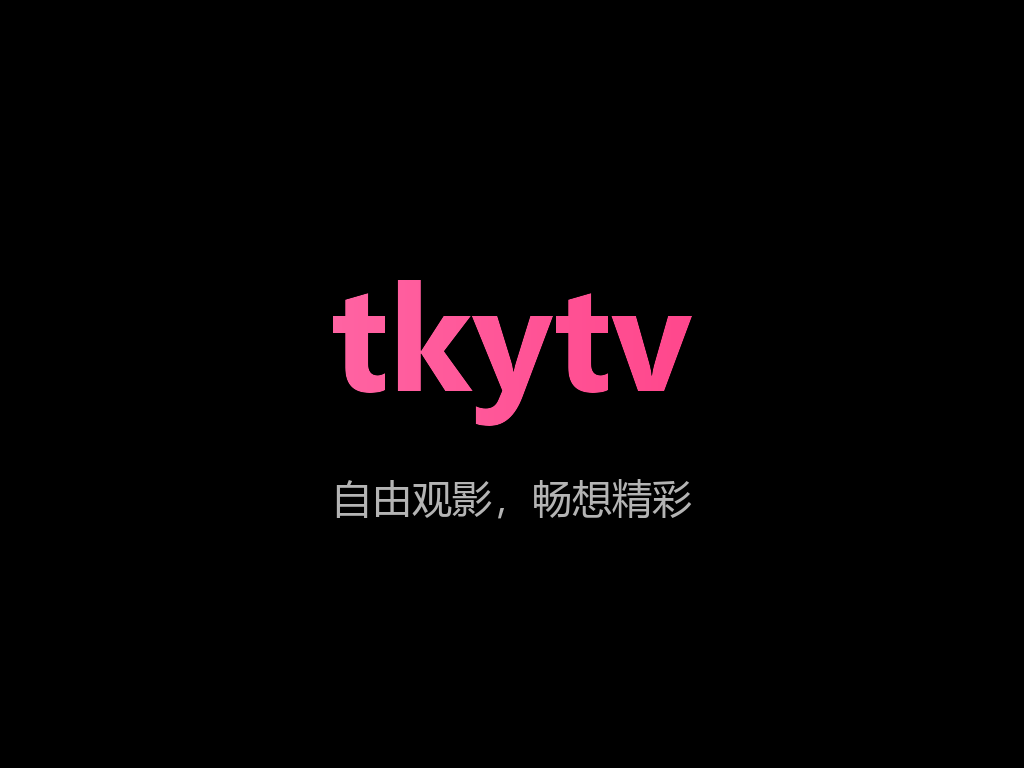
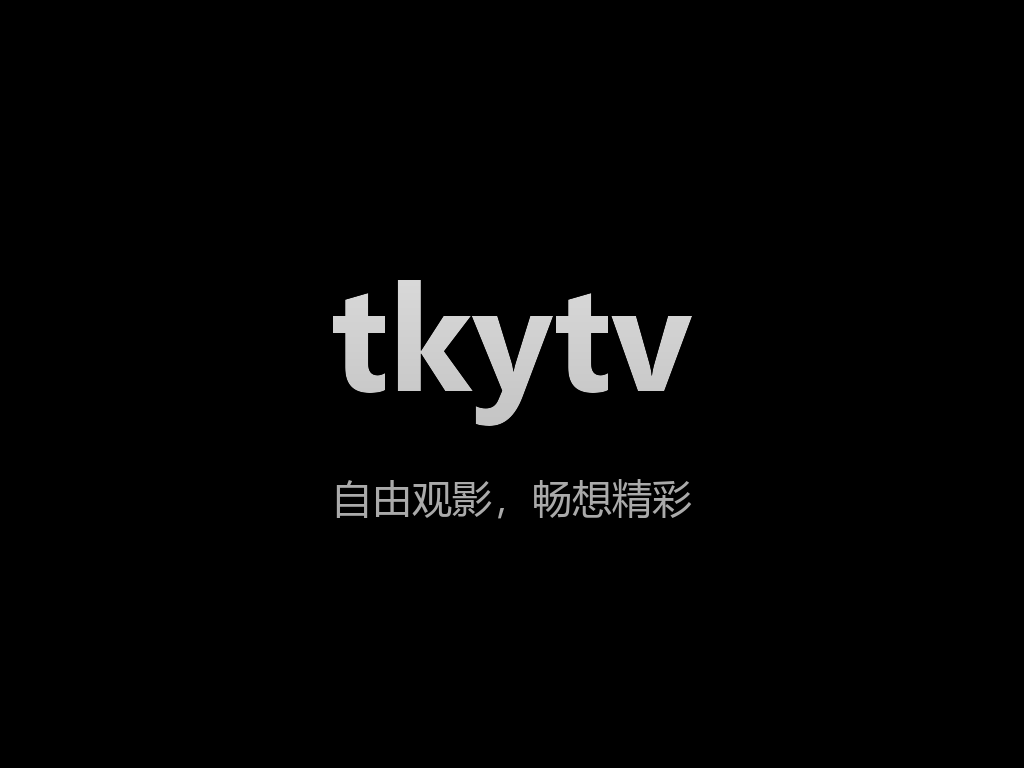
style: 整体改为黑白 Apple 质感（纯黑毛玻璃、银白图标与海报）

Changed region(s): [[0.3125, 0.3438, 0.6875, 0.5625]]

diff --git a/src/app/globals.css b/src/app/globals.css
@@ -36,33 +36,31 @@
 }
 
 .dark {
-  /* 旧版 LibreTV（backup-2025）赛博影视主题（整体调深一档）：深蓝黑底 + 霓虹蓝/粉点缀 */
-  --c-page: 11 16 26;              /* #0b101a 深蓝黑页面底色 */
-  --c-surface: 20 28 41;           /* #141c29 弹窗/抽屉底色 */
-  --c-surface-raised: 20 28 41;
-  --c-card: 13 20 31;              /* #0d141f 卡片底色 */
-  --c-chip: 22 32 46;              /* #16202e 卡片/输入框底色 */
-  --c-hover: 29 42 61;             /* #1d2a3d 悬停态（chip 提亮） */
-  --c-line: 34 48 69;              /* #223045 边框（近似旧版 rgba(0,204,255,.15) 观感） */
-  --c-content: 230 242 255;        /* #e6f2ff 蓝白主文本（--text-color） */
-  --c-muted: 133 153 178;          /* #8599b2 次级文本（--text-muted） */
-  --c-faint: 107 127 153;          /* #6b7f99 三级文本 */
-  --c-accent: 0 184 230;           /* #00b8e6 霓虹蓝主色（--primary-color 调深一档） */
-  --c-accent-hover: 51 214 255;    /* #33d6ff 霓虹蓝浅变体（--primary-light） */
-  /* 霓虹蓝底亮度过高（对白字仅 2.35:1），暗色下实心底改用深色文字 */
-  --c-on-accent: 8 19 31;
-  /* 语义状态色（暗色主题取中等明度值，保证深蓝黑底上的对比度） */
-  --c-danger: 239 68 68;           /* red-500 */
-  --c-danger-hover: 248 113 113;   /* red-400 */
-  --c-success: 34 197 94;          /* green-500 */
-  --c-warning: 245 158 11;         /* amber-500 */
-  --c-info: 59 130 246;            /* blue-500 */
-  --c-rating: 251 191 36;          /* amber-400 */
-  /* 实心状态底色（配白字）：与亮色一致取深档，避免琥珀/绿色底白字对比度不足 */
-  --c-danger-solid: 185 28 28;     /* red-700 */
-  --c-success-solid: 21 128 61;    /* green-700 */
-  --c-warning-solid: 180 83 9;     /* amber-700 */
-  --c-info-solid: 29 78 216;       /* blue-700 */
+  /* Apple 黑白质感：纯黑底 + iOS 深色模式毛玻璃层级 */
+  --c-page: 0 0 0;                /* #000000 纯黑 */
+  --c-surface: 28 28 30;          /* #1c1c1e 弹窗/抽屉 */
+  --c-surface-raised: 44 44 46;   /* #2c2c2e */
+  --c-card: 28 28 30;             /* #1c1c1e 卡片 */
+  --c-chip: 44 44 46;            /* #2c2c2e 输入框/标签 */
+  --c-hover: 58 58 60;           /* #3a3a3c 悬停 */
+  --c-line: 66 66 69;            /* #424245 细分割线 */
+  --c-content: 255 255 255;       /* #ffffff 主文本 */
+  --c-muted: 160 160 166;         /* #a0a0a6 次级文本 */
+  --c-faint: 116 116 122;         /* #74747a 三级文本 */
+  --c-accent: 255 255 255;        /* 白作为主强调色 */
+  --c-accent-hover: 229 229 234;  /* #e5e5ea 按压态 */
+  --c-on-accent: 0 0 0;          /* 白底按钮上的黑字 */
+  /* 黑白风：状态色统一去色，仅保留红色用于错误 */
+  --c-danger: 255 69 58;          /* iOS systemRed */
+  --c-danger-hover: 255 105 97;
+  --c-success: 212 212 216;
+  --c-warning: 212 212 216;
+  --c-info: 255 255 255;
+  --c-rating: 212 212 216;        /* 评分星标银灰 */
+  --c-danger-solid: 255 69 58;
+  --c-success-solid: 199 199 204;
+  --c-warning-solid: 199 199 204;
+  --c-info-solid: 229 229 234;
   color-scheme: dark;
 }
 
@@ -71,11 +69,32 @@ body {
   @apply bg-page text-content antialiased;
 }
 
-/* 暗色主题：tkyTV 自定义背景图（深色遮罩保证文字可读性） */
+/* 黑白风：自定义壁纸去色为黑白（::before 承载滤镜，不影响页面内容） */
 .dark body {
+  background: #000;
+}
+.dark body::before {
+  content: '';
+  position: fixed;
+  inset: 0;
+  z-index: -1;
   background:
-    linear-gradient(180deg, rgba(11, 16, 26, 0.5), rgba(11, 16, 26, 0.72)),
-    url('/bg.jpg') center top / cover no-repeat fixed;
+    linear-gradient(180deg, rgba(0, 0, 0, 0.35), rgba(0, 0, 0, 0.65)),
+    url('/bg.jpg') center top / cover no-repeat;
+  filter: grayscale(1) brightness(0.72);
+  pointer-events: none;
+}
+
+/* 顶部导航毛玻璃（iOS 质感） */
+.dark header {
+  background: rgba(0, 0, 0, 0.55) !important;
+  backdrop-filter: saturate(180%) blur(20px);
+  -webkit-backdrop-filter: saturate(180%) blur(20px);
+}
+
+/* 粉色 logo 去色为银白，贴合黑白主题 */
+.dark header img {
+  filter: grayscale(1) brightness(1.6) contrast(1.05);
 }
 
 body {
@@ -135,13 +154,14 @@ body {
   color: rgb(var(--c-on-accent)) !important;
 }
 
-/* 品牌渐变字（沿用旧版 LibreTV 的霓虹蓝→霓虹粉） */
+/* 品牌渐变字（黑白金属银，Apple 质感） */
 .brand-gradient {
-  background: linear-gradient(to right, #00ccff, #ff3c78);
+  background: linear-gradient(180deg, #ffffff 0%, #d7d7dc 45%, #9a9aa0 100%);
   -webkit-background-clip: text;
   background-clip: text;
   -webkit-text-fill-color: transparent;
   color: transparent;
+  letter-spacing: -0.02em;
 }
 
 /* LIVE 呼吸红点（直播页标识） */

diff --git a/src/app/manifest.ts b/src/app/manifest.ts
@@ -7,8 +7,8 @@ export default function manifest(): MetadataRoute.Manifest {
     description: '免费在线视频搜索与观看平台',
     start_url: '/',
     display: 'standalone',
-    background_color: '#111111',
-    theme_color: '#0b101a',
+    background_color: '#000000',
+    theme_color: '#000000',
     icons: [
       {
         src: '/icons/icon-192.png',

diff --git a/src/app/layout.tsx b/src/app/layout.tsx
@@ -24,7 +24,7 @@ export const metadata: Metadata = {
 };
 
 export const viewport: Viewport = {
-  themeColor: '#0b101a',
+  themeColor: '#000000',
   width: 'device-width',
   initialScale: 1,
 };

diff --git a/brand-assets/make_mono.py b/brand-assets/make_mono.py
@@ -1,0 +1,63 @@
+# -*- coding: utf-8 -*-
+"""黑白风：把图标与播放海报转成银白单色。"""
+from PIL import Image, ImageDraw, ImageFont, ImageFilter, ImageEnhance
+import os
+
+BASE = os.path.dirname(os.path.abspath(__file__))
+PUB = os.path.join(BASE, "..", "public")
+
+# ---------- 图标 ----------
+def mono_icon(size):
+    src = Image.open(os.path.join(PUB, "icons", "icon-512.png")).convert("RGBA")
+    g = src.convert("L")
+    # 提高亮度与对比，让霓虹粉变成银白，暗底保持黑
+    g = ImageEnhance.Contrast(g).enhance(1.15)
+    g = ImageEnhance.Brightness(g).enhance(1.45)
+    rgba = Image.merge("RGBA", (g, g, g, src.split()[3]))
+    return rgba.resize((size, size), Image.LANCZOS)
+
+for name, size in [("icon-512.png", 512), ("icon-192.png", 192), ("icon-144.png", 144),
+                   ("icon-96.png", 96), ("icon-48.png", 48)]:
+    mono_icon(size).save(os.path.join(PUB, "icons", name))
+
+a = mono_icon(180).convert("RGB")
+a.save(os.path.join(PUB, "icons", "apple-touch-icon.png"))
+
+ico = Image.new("RGBA", (256, 256), (0, 0, 0, 255))
+ico.alpha_composite(mono_icon(256))
+ico.convert("RGB").save(os.path.join(PUB, "favicon.ico"),
+                        sizes=[(16, 16), (32, 32), (48, 48), (64, 64)])
+
+# ---------- 播放海报（银白 tkytv） ----------
+W, H = 1024, 768
+img = Image.new("RGBA", (W, H), (0, 0, 0, 255))
+f_logo = ImageFont.truetype(r"C:\Windows\Fonts\segoeuib.ttf", 150)
+f_tag = ImageFont.truetype(r"C:\Windows\Fonts\msyh.ttc", 40)
+text = "tkytv"
+mask = Image.new("L", (W, H), 0)
+dm = ImageDraw.Draw(mask)
+bbox = dm.textbbox((0, 0), text, font=f_logo)
+tw, th = bbox[2] - bbox[0], bbox[3] - bbox[1]
+lx, ly = (W - tw) // 2 - bbox[0], 280 - bbox[1]
+dm.text((lx, ly), text, font=f_logo, fill=255)
+
+grad = Image.new("RGBA", (W, H), (0, 0, 0, 0))
+gp = grad.load()
+for y in range(H):
+    t = y / H
+    v = int(255 - (255 - 150) * t)
+    for x in range(W):
+        gp[x, y] = (v, v, v, 255)
+logo = Image.new("RGBA", (W, H), (0, 0, 0, 0))
+logo.paste(grad, (0, 0), mask)
+glow = Image.new("RGBA", (W, H), (0, 0, 0, 0))
+glow_mask = mask.filter(ImageFilter.GaussianBlur(18))
+glow.paste(Image.new("RGBA", (W, H), (255, 255, 255, 0)), (0, 0), glow_mask)
+img = Image.alpha_composite(img, glow)
+img = Image.alpha_composite(img, logo)
+d = ImageDraw.Draw(img)
+tag = "自由观影，畅想精彩"
+tb = d.textbbox((0, 0), tag, font=f_tag)
+d.text(((W - (tb[2] - tb[0])) // 2, 470), tag, font=f_tag, fill=(170, 170, 170, 255))
+img.convert("RGB").save(os.path.join(PUB, "player-poster.png"))
+print("mono assets done")
